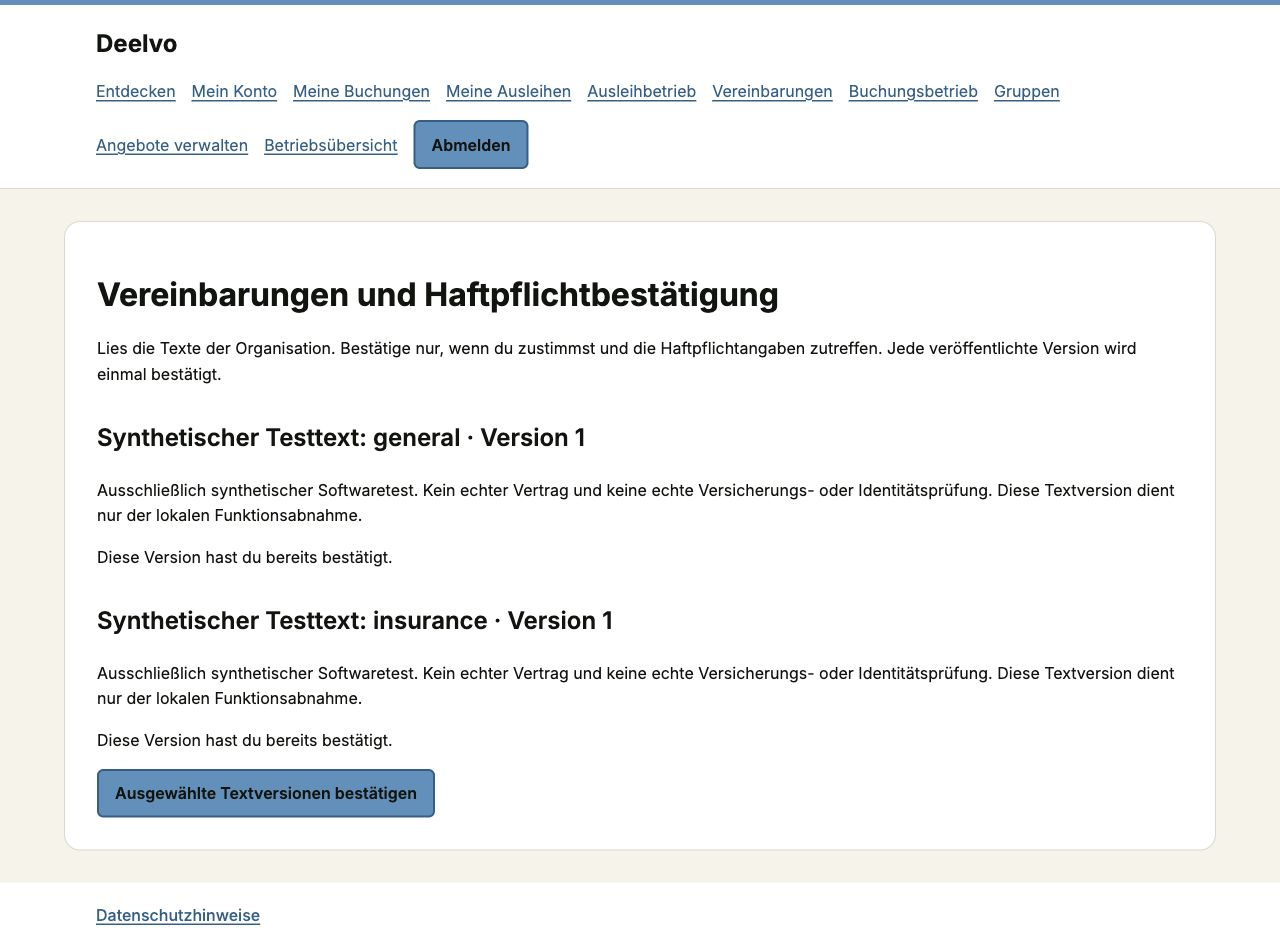
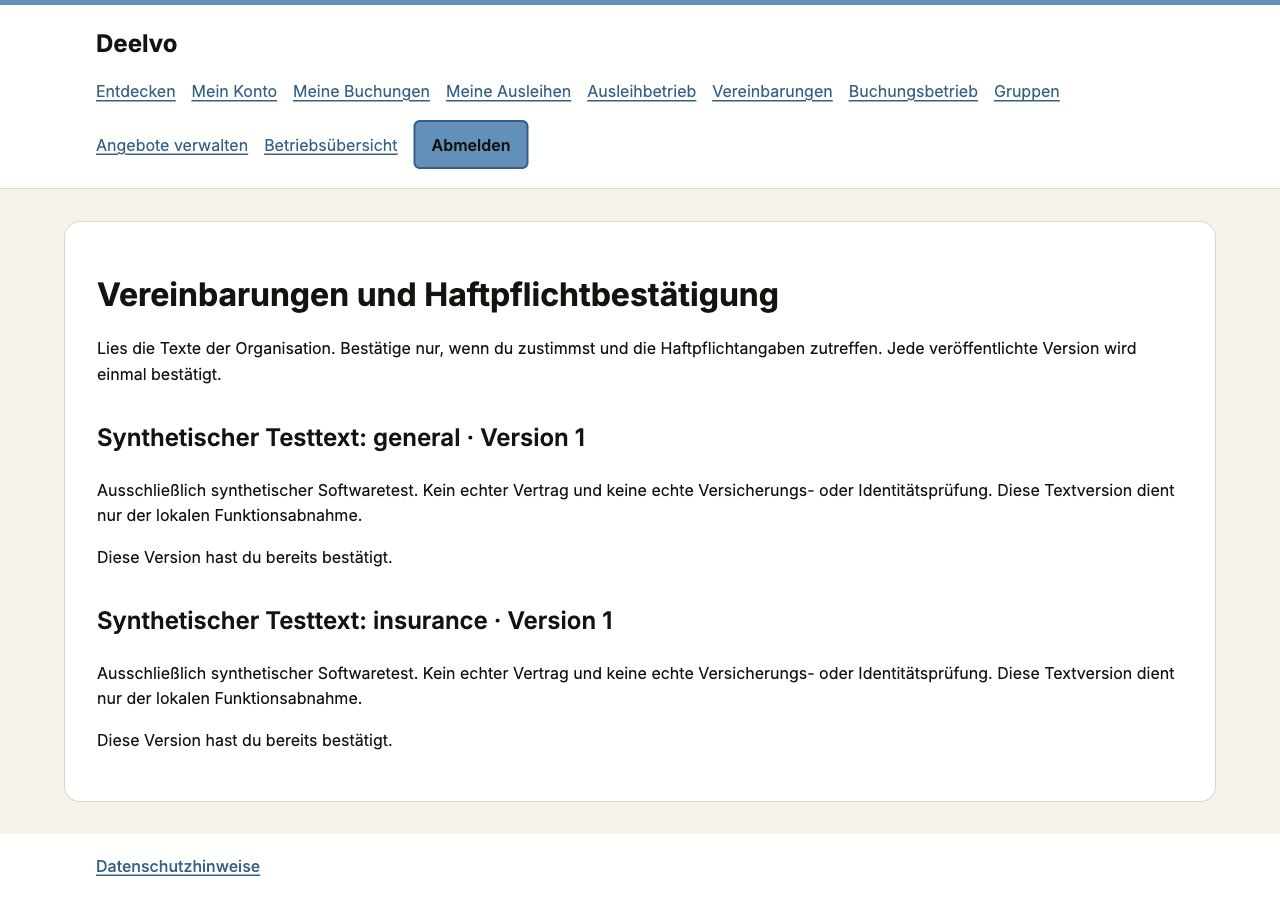
docs: finalize Phase 6 review and verified PostgreSQL CI evidence

diff --git a/docs/PHASE_6_REVIEW.md b/docs/PHASE_6_REVIEW.md
@@ -1,5 +1,71 @@
 # Deelvo — Phase 6 zur Owner-Prüfung
 
-Arbeitsstand 16.10.2026. Basis Main 96456d3; [Freigabe](OWNER_APPROVAL_PHASE_6.md). Branch review/phase-6-physical-loans. Abschließende Test-/Browser-/CI-Nachweise werden nach Ausführung ergänzt. Keine Phase 7 oder Produktion.
+Datum: 16.10.2026. Phase 5 akzeptiert und auf Main `96456d3` gemerged; [Owner-Freigabe](OWNER_APPROVAL_PHASE_6.md). Branch `review/phase-6-physical-loans`, Anwendungscode `104a7db`. Nachfolgende Review-/Nachweiscommits ändern keinen Anwendungscode. Keine Phase 7 und keine Produktion begonnen.
 
-[ADR-018](adr/018.md), [Handbuch Ausleihe](handbook/loans.md), [Handbuch Vereinbarungen](handbook/agreements.md), [Akzeptanzmatrix](ACCEPTANCE_MATRIX.md).
+## Ergebnis
+
+Physische Reservierungen sind jetzt mit vollständigem aktuellen Ausleihprofil, selbst bestätigten aktuellen allgemeinen Vereinbarungen/Haftpflicht und gegebenenfalls mehreren Angebots-/Assetvereinbarungen möglich. Die Organisation schreibt und veröffentlicht Texte im Tool; veröffentlichte Versionen und persönliche Bestätigungen sind unveränderlich. Bestätigung einmal je verlangter Version, erneut nach relevanter Veröffentlichung. Kein Personal darf für den Beneficiary zustimmen, keine erfundenen Vertragstexte. Fehlende Einrichtung bleibt sicher geschlossen.
+
+Abhol- und Rückgabetermine sind getrennte lokale Instants innerhalb des reservierten Zeitraums, mit eigenen Zeitplänen und Gebäudezugang. Physischer Besitz darf geschlossene Öffnungszeiten überspannen; Vor-Ort-Nutzung bleibt dem vorhandenen Zeitmodell unterworfen. Slots und inklusive lokale Tagesbuchung/DST verwenden dieselbe zentrale Umrechnung und Claimprüfung.
+
+Erste tatsächliche Ausgabe verlangt einen ausdrücklich dokumentierten persönlichen Ausweischeck. Gespeichert werden nur prüfendes Konto, ausleihendes Konto und Zeitpunkt — kein Feld für Dokumentnummer, Foto/Kopie, Versicherungsgesellschaft oder Policennummer. Loan referenziert die verwendeten Textversionen, minimalen Prüfkontext und Profilrevision.
+
+Scanner/HID oder manuelle Eingabe bereitet vor. Eine passende Reservierung wird wiederverwendet. Spontane Ausgabe erzeugt Booking/Claim und Loan gemeinsam oder gar nicht. Mehrere reservierte/spontane Gegenstände können einen Loan mit separaten ursprünglichen Booking-FKs und unabhängigen LoanLines bilden. Je Position werden Zustand und tatsächlich mitgegebenes Zubehör bewusst geprüft. Die Personaloberfläche verwirft nach Abschluss den vorbereiteten Person-/Scankontext; Codefelder werden geleert und bleiben für den nächsten Scan fokussiert. Es gibt einen ausdrücklichen Reset. Kein öffentlicher Self-Service, Kamera-, Device-Trust- oder Offlinepfad.
+
+Rücknahme bestätigt tatsächlichen Zustand und Zubehör pro Position, beendet nur diesen Gewahrsam und kehrt zum nächsten Scan zurück. Erst die letzte Rückgabe schließt den Loan. Eine Kontosperre oder neue unbestätigte Pflichtversion beim Borrower verhindert keine berechtigte Rücknahme. Schaden/Prüfbedarf setzt das konkrete Asset in Wartung und macht dessen Unit ungeeignet; gesunde andere Units werden nicht pauschal gesperrt. Verbleibende betroffene Zusagen erhalten Prüfbedarf. Rücknahme ohne Zustandsänderung erzeugt keinen falschen Hinweis; Zustandsrückmeldung steht zusätzlich im Asset-Audit.
+
+Überfällig ist eine noch offene Line nach expected_return. Erwartete Rückgabe und Reservierungsende bedeuten niemals tatsächliche Rückgabe. Future Booking nach erwarteter Rückgabe bleibt bei nicht überlappenden Claims möglich; eine zweite tatsächliche Ausgabe bleibt bis zur echten Rücknahme ausgeschlossen. Der Betreiberjob markiert gefährdete Folgezusagen. Berechtigte Verlängerung prüft aktuelle Regeln, Nachweise, Termine und Folgekapazität; Nichtabholung wird mit Grund/Revision nur für noch nie ausgegebene Reservierungen ausdrücklich abgeschlossen.
+
+## Integrität und Rechte
+
+Zentraler Autorisierungslock → aktuelle Profile/Grants/Policy → konkrete Unit-/Booking-/Loan-/Assetlocks → gesamte Mutation samt Audit/Idempotenz in einer Transaktion. Keine zweite Grant-Algebra. Actor und Beneficiary bleiben getrennt, vollständige alternative Grantprofile und Denies gelten weiter. Mitarbeiter-/Systemadminstatus allein gewährt keine Betriebsrechte.
+
+PostgreSQL schützt höchstens einen offenen Gewahrsam je Unit und Asset. Echte FKs und Guards sichern übereinstimmende Loan-/Booking-/Unit-/Assetidentität. Deferred Checks sichern Claim-/Buchungsstatus, tatsächliche Lines und Loanabschluss. Physische Bookings können ohne echten Loanbeleg weder aktiv noch abgeschlossen werden. Permanente veröffentlichte Texte, Bestätigungen, Erstprüfung, Extension- und Operationsdatensätze können nicht umgeschrieben/gelöscht werden. Zeitliche Exclusion bleibt unabhängig vom tatsächlichen Gewahrsam bestehen.
+
+Verlängerung ist die dokumentierte enge Ergänzung zur bisherigen unveränderlichen Endgrenze: permanenter Vorher/Nachher-Datensatz mit Actor, Grund, Revision und aktuellen Regeln erlaubt ausschließlich entsprechende positive End-/Claimerweiterung. Start, Beteiligte, Zuordnung und ursprünglicher Snapshot bleiben unverändert. Kein freier SQL-Endedit oder technischer Konfliktoverride. Originalmigrationen wurden nicht verändert. [ADR-018](adr/018.md).
+
+loan.checkout/read/return/extend prüfen aktuelle Resource-Scopes. Ausgabe prüft außerdem die vollständigen Actor-/Beneficiary-Buchungsprofile. Whole-loan-Lesen verlangt alle enthaltenen Lesescopes; eigene aktive/verifizierte Borrower lesen ihren Beleg. Exakte Personensuche braucht organisationsweites borrower.read_contact und Audit, Erstprüfung separat loan.inspect_identity. Textedit/-publish sind separate organisationsweite Aktionen, Zusatzzuordnung scoped auf Resource/Asset. No-show zusätzlich booking.manage_all. Private Routen: Login/aktive Verifikation, CSRF, No-store, CSP/Referrer-Policy, escaped Texte. Keine neue API oder öffentliche Borrowerprojektion.
+
+## Oberfläche, Dokumentation und Migration
+
+`/ausleihen/`: persönliche Liste/Beleg, eigene verlangte Textversionen. `/ausleihen/betrieb/`: scoped Vorgänge, offene Abholungen, Überziehung, Ausgabe/Rücknahmescan, Verlängerung/Nichtabholung, Vereinbarungseditor/Veröffentlichung und Zuordnung/Entfernung. Katalogbuchung erhält Terminfelder und Profil-/Textlinks. Dashboard ergänzt reale scoped heutige Abholungen/Rückgaben und offene überfällige Lines, keine Fakezahlen. Grundlegende Listen paginiert, Dashboardabschnitte auf 20 begrenzt.
+
+Handbuch: [Ausleihe](handbook/loans.md), [Vereinbarungen](handbook/agreements.md), Kontoeinstieg, Buchungen/Administration, Dashboard/Begriffe. Spec, Architektur, Datenmodell, Engine, Permissions, Security, UI/UX, Entwicklungsplan, Ownerentscheidungen und ADR-Index aktualisiert. [Matrix](ACCEPTANCE_MATRIX.md) mit P6-AC-01–18 und Dokumentationscheck. Keine neue Dependency; bestehendes Django/PostgreSQL/Psycopg, lokale Inter-Schriften und zentralisierte Deelvo-Tokens bleiben Grundlage. Keine neue Logo-/Cloud-/JS-/Scanner-SDKabhängigkeit.
+
+Migrationen: lending/0001 Tabellen; /0002 Evidence-/Custody-/Extensionguards; /0003 Beleg-/Appointmentkonsistenz; bookings/0004 Status/CHECK no_show; lending/0004 terminaler No-show-Guard; /0005 physische Statusprüfung mit tatsächlichem Loanbeleg. Lokal auf synthetischer Entwicklungsdatenbank angewandt; pytest erstellt vollständiges Schema frisch. Kein Umschreiben bestehender Assets, Ressourcen, Identifier, Bookings oder Phase-5-Migrationen.
+
+[Operatoranleitung](DEVELOPMENT.md): vor Upgrade konsistente DB-/Mediensicherung, neue Migrationen vor Webprozessen. Neue Guardmigrationen haben bewusst keinen destruktiven Reversepfad; Forward-Fix oder abgestimmter gestoppter Restore, keine Löschung von Historiendaten zum Downgrade. Regelmäßiger Job `python backend/manage.py check_overdue_loans` markiert überfälligen Gewahrsam/Folgehinweise; vorhandener advance_onsite_bookings ignoriert physische Snapshots. Kein Scheduler/SMTP/Produktionsjob aktiviert.
+
+## Tatsächlich ausgeführte Prüfungen
+
+Lokal: macOS ARM64, Python 3.12.14, Django 5.2.18, PostgreSQL 16.2/Unixsocket, separate disposable Testdatenbank. Finaler Code `104a7db`: **203 Tests bestanden in 56,44 Sekunden**, davon 22 neue Ausleihfälle und 181 Regressionen. [JUnit](test-results/phase-6-local.xml). Kein SQLite-Ersatz.
+
+```sh
+python -m pytest --junitxml=docs/test-results/phase-6-local.xml
+python -m ruff check .
+python -m ruff format --check .
+python -m mypy
+python backend/manage.py check
+python backend/manage.py makemigrations --check --dry-run
+python scripts/verify_docs.py
+```
+
+Mit lokalem nicht eingechecktem Umgebungsrunner ausgeführt. Ruff grün, 114 Dateien formatiert, Mypy 101 Quelldateien grün, System-/Migrations-/Dokumentations-/Diffcheck grün.
+
+Neue Fälle: Profile und aktuelle Resource-/Assettexte, einmal je Version/Immutable SQL, Erstprüfung, Datumsemantik trotz geschlossener Öffnung, Reservierungswiederverwendung ohne zweiten Booking, atomare Spontanausgabe/Rollback/Retry, Mehrpositionsloan/Teilrückgabe/Schaden, acht parallele Ausgaben mit genau einem Gewahrsam, Folgereservierung während offenem Loan/Überziehung, permanente Verlängerung und Folgekonflikt, gesperrter Borrower bleibt rücknehmbar, Mitarbeiter/Admin/Rechteentzug, IDOR/CSRF/No-store, HID-/Scan-Duplikat/Abschluss/Reset, vollständiges Spontanformular, terminale Nichtabholung, unverfrühter Belegabschluss, neue Pflichtversion zwischen Reservierung/Ausgabe, keine physische Aktivierung allein durch Zeit/SQL, Textadministrationsformulare/mehrfache Publikation/Zuordnung/Entfernung/XSS, persönliche Bestätigung/negative Rollen.
+
+AC-06 und physische Teile von AC-12/22/25–30 sowie KIOSK-AC-03–08 sind durch diese produktiven Pfade/Tests konkretisiert. Keine pauschale Erfüllung von phasenübergreifenden Privacy-/Hardware-/Bundle-/Self-Service-Kriterien. Neue Textversionen nach bereits erfolgter Ausgabe fälschen keine neue Zustimmung; erforderlich werden sie bei der nächsten entsprechenden Aktion.
+
+Browser, ausschließlich synthetische Daten: Personal-Anmeldung, genaue Borrowerauswahl, simulierte Erstprüfung, HID-artiges Code+Enter mit Feldleerung/Fokus, bewusste Spontanausgabe, Ausleihbeleg, Verlängerung 10:45→11:45 Rückgabetermin, tatsächliche Rücknahme→neuer Scan, geschlossener Beleg, eigene Ausleihliste/Versionsbestätigungen, Textverwaltung, Betriebsübersicht; zusätzlich physische Online-Vorschau→Reservierung für 17.10.2026 15–17 mit getrenntem Rückgabetermin 16:45 und ausdrücklich ohne Ausgabe. Bei 320px Beleg scrollWidth=innerWidth=320, Viewport zurückgesetzt. Kein echter Hardwaretest oder umfassendes Screenreader-/WCAG-Zertifikat.
+
+[Synthetische Ausgabe](screenshots/phase-6-issued.jpg), [Verlängerung](screenshots/phase-6-extended.jpg), [echte Rückgabe](screenshots/phase-6-returned.jpg), [nächster Scan](screenshots/phase-6-return-scan.jpg), [mobil](screenshots/phase-6-mobile.jpg), [Textverwaltung](screenshots/phase-6-agreements.jpg), [eigene bestätigte Versionen](screenshots/phase-6-personal-agreements.jpg), [Ausleihbetrieb](screenshots/phase-6-operations.jpg), [Dashboard](screenshots/phase-6-dashboard.jpg), [physische Vorschau](screenshots/phase-6-reservation-preview.jpg), [Reservierung ohne Ausgabe](screenshots/phase-6-reservation.jpg). Negative Rollen, Teilrückgabe, neue Textversionen und konkurrierende Ausgabe automatisiert geprüft.
+
+Docker/Linux/PostgreSQL-17-CI für `104a7db`: [Run 38867010811](https://github.com/IndieStu/Zirculeih/actions/runs/38867010811) erfolgreich abgeschlossen. **203 Tests bestanden in 144,21 Sekunden**; Build, Lint/Typen, System-/Migrationsprüfung, PostgreSQL-Integration/Konkurrenz, Bootstrap/Health und Cleanup erfolgreich. [Gesicherter CI-Nachweis](test-results/phase-6-ci.json). Der Container prüft 112 formatierte Dateien gegenüber 114 beim lokalen Dateiscan; beide grün. Nachfolgende Dokumentations-/Screenshotcommits ändern keinen Anwendungscode; ihre CI ist vom ausdrücklich belegten Codecommit zu unterscheiden.
+
+## Grenzen und Reviewgate
+
+Kein Phase-7-Qualifikations-/Advanced-Pool-/Bundlebetrieb, API/ICS, Erinnerungsmails, Kamera, öffentliches Self-Service, Offlinewrites, produktive Verträge/Identitätsprüfungen oder reale personenbezogene Daten. Zubehörchecklisten dokumentieren mitgegebene Bestandteile; separat inventarisierte exklusive Pflichtteile benötigen weiterhin atomare Phase-7-Bundleallokation. Einweisungsrequired bleibt sicher geschlossen. Normale Selbstverlängerung/Operational-Override ist nicht eingeführt; Verlängerung benötigt ausdrücklich Personalrechte und darf nie Doppelbelegung erzwingen.
+
+Tatsächliche Rücknahme durch autorisiertes anwesendes Personal ist auch außerhalb geplanter Terminfenster möglich. Spontanausgabe verlangt heutigen laufenden Zeitraum und Lead null; es wird keine zukünftige Reservierung heimlich vorzeitig ausgegeben. Ganze fremde Mehrpositionsbelege setzen alle enthaltenen Lesescopes voraus. Globale Schreibserialisierung und Requestspeicher-Scopefilterung sind konservativ und noch nicht lastgeprüft. Retention/Anonymisierung, endgültige Projektlizenz, Restore-, native/container Security-, vollständige Accessibility- und echte Scanner-/Shared-Terminalprüfungen bleiben Release-/Pilotgates.
+
+Branch per SSH gepusht, kein Main-Push/Merge. PR-Erstellung über GitHub-Connector tatsächlich versucht: `403 Resource not accessible by integration`; kein PR angelegt. [Branchvergleich und PR-Anlage](https://github.com/IndieStu/Zirculeih/compare/main...review/phase-6-physical-loans). Ownerreview vor Phase 7.

diff --git a/docs/ACCEPTANCE_MATRIX.md b/docs/ACCEPTANCE_MATRIX.md
@@ -188,21 +188,21 @@ Tests in tests/test_lending.py, [Review](PHASE_6_REVIEW.md). AC-06/12/22/25–30
 
 | ID | Nachweis | Testschwerpunkt | Status |
 | --- | --- | --- | --- |
-| P6-AC-01 | Profil, aktuelle allgemeine/Haftpflicht-/Assettexte verpflichtend | current_profile_and_asset_specific_terms_are_mandatory | Implementiert; finaler Nachweis im Review |
-| P6-AC-02 | Einmal je Version; unveränderliche Texte/Nachweise | new_text_version_requires_fresh_personal_acceptance | Implementiert; finaler Nachweis im Review |
-| P6-AC-03 | Erst-Ausweisprüfung ohne Dokumentdaten | identity_and_custody_gate | Implementiert; finaler Nachweis im Review |
-| P6-AC-04 | Physische Tagesbuchung mit separaten Terminen | calendar_days_allow_closed_opening_between_appointments | Implementiert; finaler Nachweis im Review |
-| P6-AC-05 | Reservierung wiederverwenden, kein doppeltes Booking | physical_reservation_issue_and_return_are_separate | Implementiert; finaler Nachweis im Review |
-| P6-AC-06 | Spontanausgabe Booking/Loan atomar + Retry | spontaneous_issue_is_atomic_and_idempotent / failed_spontaneous | Implementiert; finaler Nachweis im Review |
-| P6-AC-07 | Mehrere Lines, Teilrückgabe und spezifischer Schaden | partial_return_and_damage_block_only_returned_unit | Implementiert; finaler Nachweis im Review |
-| P6-AC-08 | Acht gleichzeitige Ausgaben, genau ein Gewahrsam | concurrent_checkout_has_one_actual_custody | Implementiert; finaler Nachweis im Review |
-| P6-AC-09 | Folgereservierung trotz offenem Loan; Überziehung markiert | future_booking_allowed_during_custody_and_overdue_marks_it | Implementiert; finaler Nachweis im Review |
-| P6-AC-10 | Verlängerung mit permanentem Vorher/Nachher; keine Folgeüberlappung | extension_checks_next_claim / extension_cannot_overlap_followup | Implementiert; finaler Nachweis im Review |
-| P6-AC-11 | Gesperrter Beneficiary bleibt rücknehmbar | physical_reservation_issue_and_return_are_separate | Implementiert; finaler Nachweis im Review |
-| P6-AC-12 | Rechteentzug/Mitarbeiter/Admin kein Bypass | permission_revocation_and_employee_flag_never_bypass | Implementiert; finaler Nachweis im Review |
-| P6-AC-13 | Fremde Belege/CSRF/no-store | receipt_idor_private_headers_and_csrf | Implementiert; finaler Nachweis im Review |
-| P6-AC-14 | Scanner vorbereitet schreibfrei, Duplikat/Abschluss/Reset | scanner_prepares_then_confirms_and_resets_context | Implementiert; finaler Nachweis im Review |
-| P6-AC-15 | Scanner-Spontanformular kompletter Commit | scanned_spontaneous_form_commits_booking_and_loan_together | Implementiert; finaler Nachweis im Review |
-| P6-AC-16 | Nichtabholung ohne Gewahrsam, terminale Historie | no_show_frees_claim_without_creating_custody | Implementiert; finaler Nachweis im Review |
-| P6-AC-17 | Beleg darf nicht vor tatsächlicher Rückgabe schließen | loan_receipt_cannot_close_before_actual_return | Implementiert; finaler Nachweis im Review |
-| P6-AC-18 | Neue Pflichtversion nach Reservierung sperrt Ausgabe | new_agreement_after_reservation_prevents_checkout | Implementiert; finaler Nachweis im Review |
+| P6-AC-01 | Profil, aktuelle allgemeine/Haftpflicht-/Assettexte verpflichtend | current_profile_and_asset_specific_terms_are_mandatory | Lokal + Docker/PG17 bestanden; siehe Review |
+| P6-AC-02 | Einmal je Version; unveränderliche Texte/Nachweise | new_text_version_requires_fresh_personal_acceptance | Lokal + Docker/PG17 bestanden; siehe Review |
+| P6-AC-03 | Erst-Ausweisprüfung ohne Dokumentdaten | identity_and_custody_gate | Lokal + Docker/PG17 bestanden; siehe Review |
+| P6-AC-04 | Physische Tagesbuchung mit separaten Terminen | calendar_days_allow_closed_opening_between_appointments | Lokal + Docker/PG17 bestanden; siehe Review |
+| P6-AC-05 | Reservierung wiederverwenden, kein doppeltes Booking | physical_reservation_issue_and_return_are_separate | Lokal + Docker/PG17 bestanden; siehe Review |
+| P6-AC-06 | Spontanausgabe Booking/Loan atomar + Retry | spontaneous_issue_is_atomic_and_idempotent / failed_spontaneous | Lokal + Docker/PG17 bestanden; siehe Review |
+| P6-AC-07 | Mehrere Lines, Teilrückgabe und spezifischer Schaden | partial_return_and_damage_block_only_returned_unit | Lokal + Docker/PG17 bestanden; siehe Review |
+| P6-AC-08 | Acht gleichzeitige Ausgaben, genau ein Gewahrsam | concurrent_checkout_has_one_actual_custody | Lokal + Docker/PG17 bestanden; siehe Review |
+| P6-AC-09 | Folgereservierung trotz offenem Loan; Überziehung markiert | future_booking_allowed_during_custody_and_overdue_marks_it | Lokal + Docker/PG17 bestanden; siehe Review |
+| P6-AC-10 | Verlängerung mit permanentem Vorher/Nachher; keine Folgeüberlappung | extension_checks_next_claim / extension_cannot_overlap_followup | Lokal + Docker/PG17 bestanden; siehe Review |
+| P6-AC-11 | Gesperrter Beneficiary bleibt rücknehmbar | physical_reservation_issue_and_return_are_separate | Lokal + Docker/PG17 bestanden; siehe Review |
+| P6-AC-12 | Rechteentzug/Mitarbeiter/Admin kein Bypass | permission_revocation_and_employee_flag_never_bypass | Lokal + Docker/PG17 bestanden; siehe Review |
+| P6-AC-13 | Fremde Belege/CSRF/no-store | receipt_idor_private_headers_and_csrf | Lokal + Docker/PG17 bestanden; siehe Review |
+| P6-AC-14 | Scanner vorbereitet schreibfrei, Duplikat/Abschluss/Reset | scanner_prepares_then_confirms_and_resets_context | Lokal + Docker/PG17 bestanden; siehe Review |
+| P6-AC-15 | Scanner-Spontanformular kompletter Commit | scanned_spontaneous_form_commits_booking_and_loan_together | Lokal + Docker/PG17 bestanden; siehe Review |
+| P6-AC-16 | Nichtabholung ohne Gewahrsam, terminale Historie | no_show_frees_claim_without_creating_custody | Lokal + Docker/PG17 bestanden; siehe Review |
+| P6-AC-17 | Beleg darf nicht vor tatsächlicher Rückgabe schließen | loan_receipt_cannot_close_before_actual_return | Lokal + Docker/PG17 bestanden; siehe Review |
+| P6-AC-18 | Neue Pflichtversion nach Reservierung sperrt Ausgabe | new_agreement_after_reservation_prevents_checkout | Lokal + Docker/PG17 bestanden; siehe Review |

diff --git a/README.md b/README.md
@@ -2,7 +2,7 @@
 
 Selbst gehostete Inventarverwaltung, Ressourcenreservierung und Ausleihe für Makerspaces.
 
-Stand: 16.10.2026. Phasen 1–5 sind akzeptiert und gemerged. Phase 6 ist implementiert und wird abschließend geprüft: physische Reservierungen, versionierte Vereinbarungen/Haftpflicht, Erst-Ausweisnachweis, scannerunterstützte Ausgabe/Teilrückgabe, Überziehung, Verlängerung und Nichtabholung. Reservierung und tatsächlicher Gewahrsam bleiben getrennt. Keine Produktion oder Phase 7 ohne eigene Freigabe.
+Stand: 16.10.2026. Phasen 1–5 sind akzeptiert und gemerged. Phase 6 ist implementiert und steht zur Owner-Prüfung (203 Tests lokal und in Docker/PostgreSQL 17 bestanden): physische Reservierungen, versionierte Vereinbarungen/Haftpflicht, Erst-Ausweisnachweis, scannerunterstützte Ausgabe/Teilrückgabe, Überziehung, Verlängerung und Nichtabholung. Reservierung und tatsächlicher Gewahrsam bleiben getrennt. Keine Produktion oder Phase 7 ohne eigene Freigabe.
 
 ## Start und Review
 

diff --git a/PROJECT_SPEC.md b/PROJECT_SPEC.md
@@ -1,6 +1,6 @@
 # Deelvo — Product & Engineering Specification
 
-**Version:** 0.7 · **Status:** Phase 5 accepted and merged; Phase 6 authorized and in progress · **Date:** 2026-10-16
+**Version:** 0.7 · **Status:** Phase 5 accepted and merged; Phase 6 implemented, pending owner review · **Date:** 2026-10-16
 **Product name:** Deelvo · **Primary language:** German (de-DE) · **Timezone:** Europe/Berlin
 
 > This document is the authoritative product specification for Codex. Do not implement the entire product at once. First complete Phase 0, produce architecture artifacts, and request approval before writing application features. Unresolved choices must be captured as ADRs and must not be silently invented.
